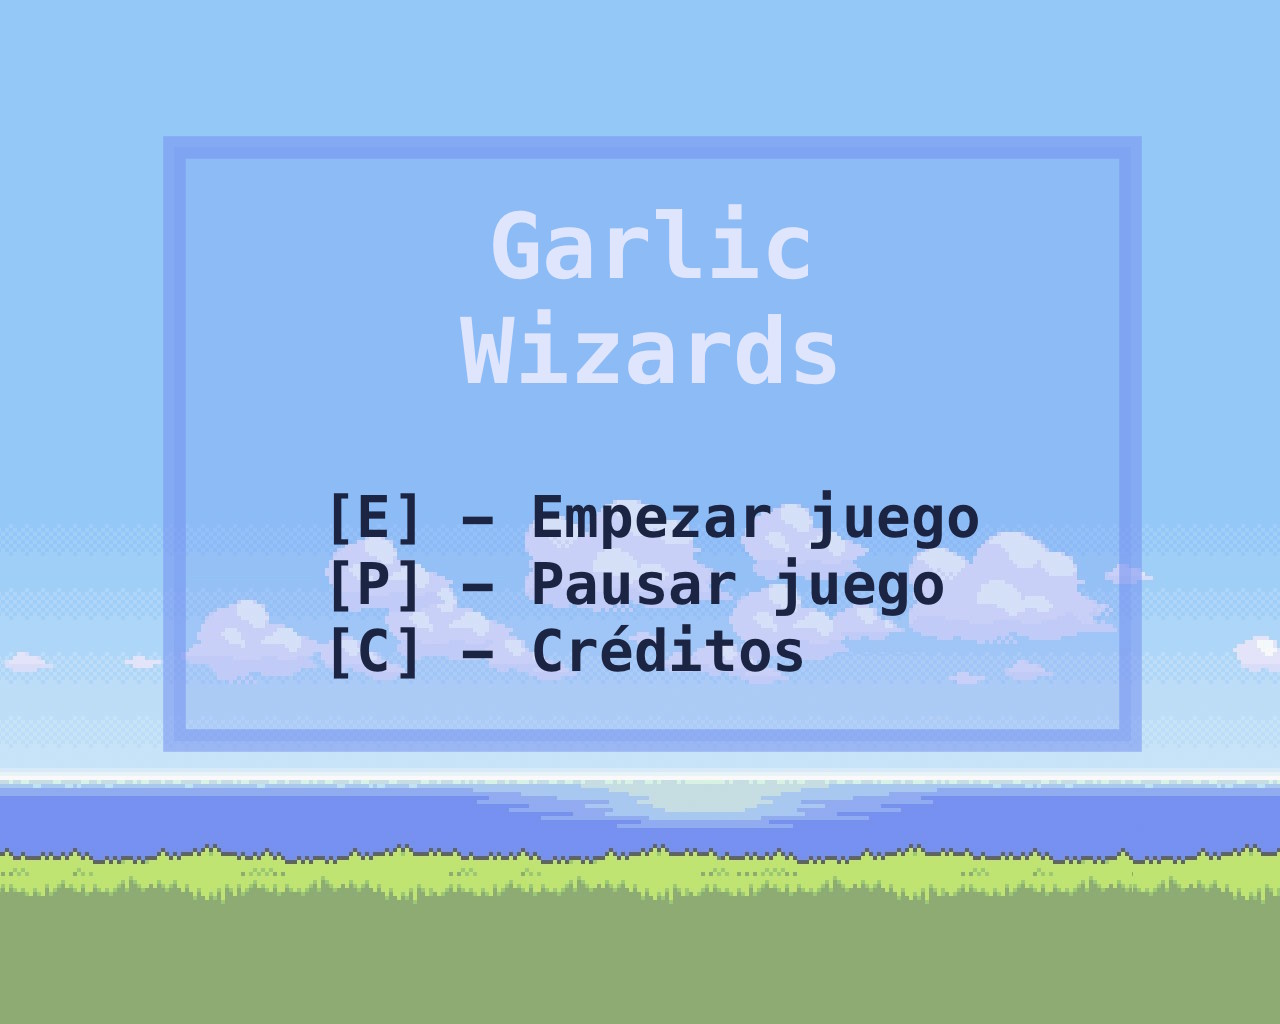
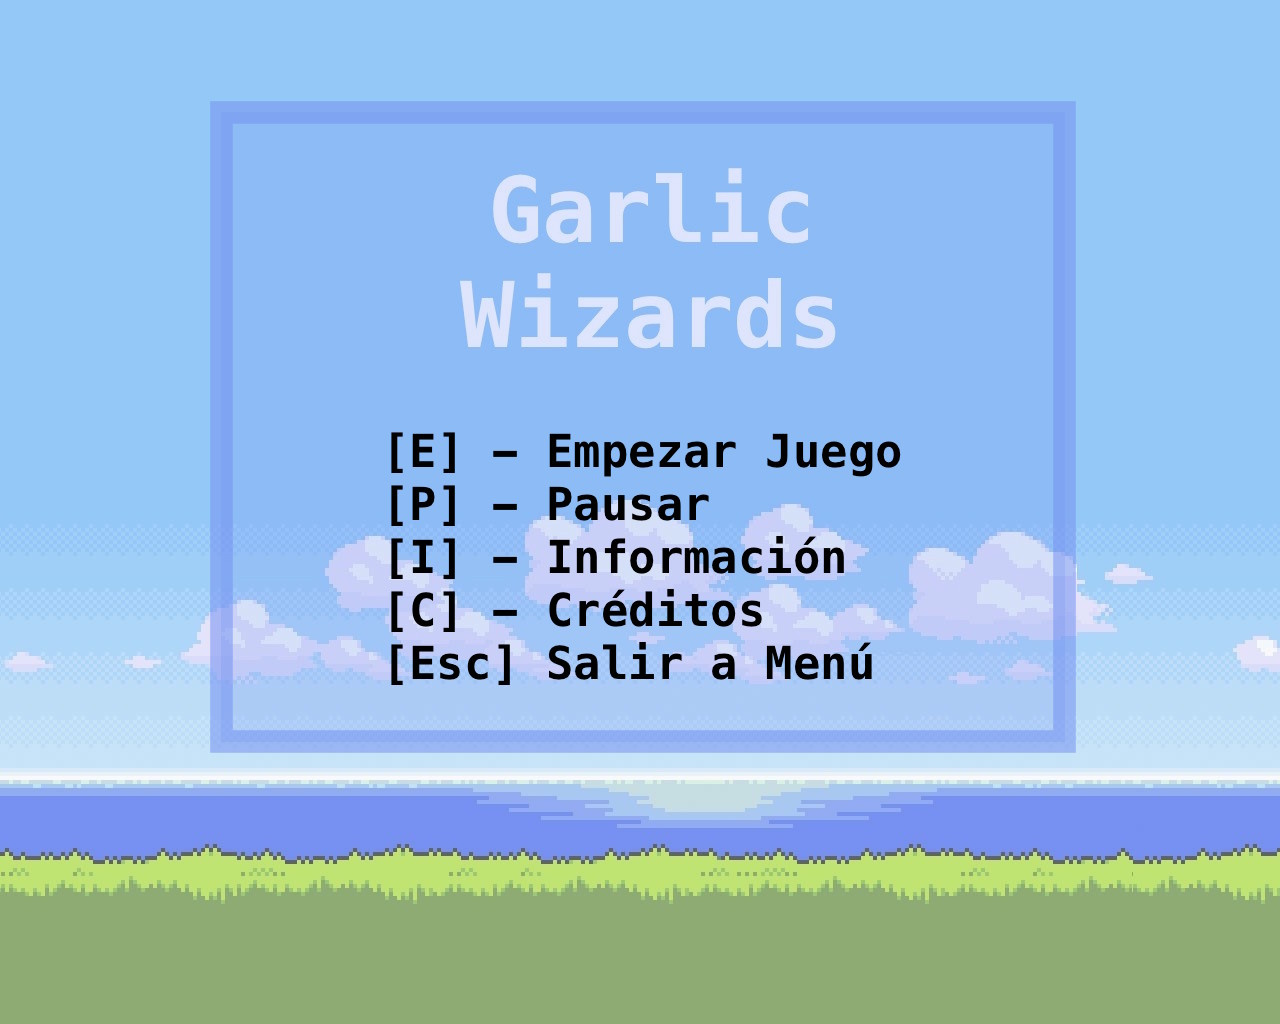
Adds info, fixes ESC key bug, resets seconds on ESC

Changed region(s): [[0.25, 0.4062, 0.7812, 0.6875], [0.125, 0.0938, 0.9062, 0.75], [0.3438, 0.1562, 0.6562, 0.375]]

diff --git a/src/garlicwizards/Game.java b/src/garlicwizards/Game.java
@@ -34,13 +34,15 @@ import javax.swing.Timer;
 public final class Game extends JFrame implements Runnable, KeyListener, MouseListener{
     
 //    constants
-    public enum GAME_STATE {RUNNING, PAUSE, GAME_OVER, NOT_STARTED, CREDITS};
+    public enum GAME_STATE {RUNNING, PAUSE, GAME_OVER, NOT_STARTED, CREDITS,
+                            INFO};
 
     public static final String BACKGROUND_IMG_URL = "background.jpg";
     public static final String GAMEOVER_IMG_URL = "gameOver.jpg";
     public static final String MAINMENU_IMG_URL = "main_menu.jpg";
     public static final String CREDITS_IMG_URL = "credits.jpg";
     public static final String PAUSE_IMG_URL = "pause.jpg";
+    public static final String INFO_IMG_URL = "info.jpg";
     
     public static final String BULLET_IMG_URL1 = "garlic.png";
 //    public static final String BULLET_IMG_URL2 = "imagen.gif";
@@ -317,11 +319,6 @@ public final class Game extends JFrame implements Runnable, KeyListener, MouseLi
             else if(e.getKeyCode() == KeyEvent.VK_P) {
                 currentGameState = GAME_STATE.PAUSE;
             }
-            
-            else if(e.getKeyCode() == KeyEvent.VK_ESCAPE) {
-                currentGameState = GAME_STATE.NOT_STARTED;
-            }
-           
         } else if(currentGameState == GAME_STATE.NOT_STARTED) {
             if(e.getKeyCode() == KeyEvent.VK_E) {
                 initializeData();
@@ -330,15 +327,18 @@ public final class Game extends JFrame implements Runnable, KeyListener, MouseLi
             else if(e.getKeyCode() == KeyEvent.VK_C) {    
                 currentGameState = GAME_STATE.CREDITS;
             }
+            else if(e.getKeyCode() == KeyEvent.VK_I) {    
+                currentGameState = GAME_STATE.INFO;
+            }
             else if(e.getKeyCode() == KeyEvent.VK_P) {
                 currentGameState = GAME_STATE.PAUSE;
             }
-        } else if(currentGameState == GAME_STATE.CREDITS) {
-            if(e.getKeyCode() == KeyEvent.VK_ESCAPE) {
-                currentGameState = GAME_STATE.NOT_STARTED;
-            }
         }
-    
+        
+        if(e.getKeyCode() == KeyEvent.VK_ESCAPE) {
+            currentGameState = GAME_STATE.NOT_STARTED;
+            iSecondsCount = 0;
+        }
         
     }
 
@@ -393,6 +393,9 @@ public final class Game extends JFrame implements Runnable, KeyListener, MouseLi
                 imgBackground = Toolkit.getDefaultToolkit().getImage(urlBackgroundImg);
         } else if(currentGameState == GAME_STATE.CREDITS) {
                 urlBackgroundImg = this.getClass().getResource(CREDITS_IMG_URL);
+                imgBackground = Toolkit.getDefaultToolkit().getImage(urlBackgroundImg);
+        } else if(currentGameState == GAME_STATE.INFO) {
+                urlBackgroundImg = this.getClass().getResource(INFO_IMG_URL);
                 imgBackground = Toolkit.getDefaultToolkit().getImage(urlBackgroundImg);
         }
         //despliega la imagen
